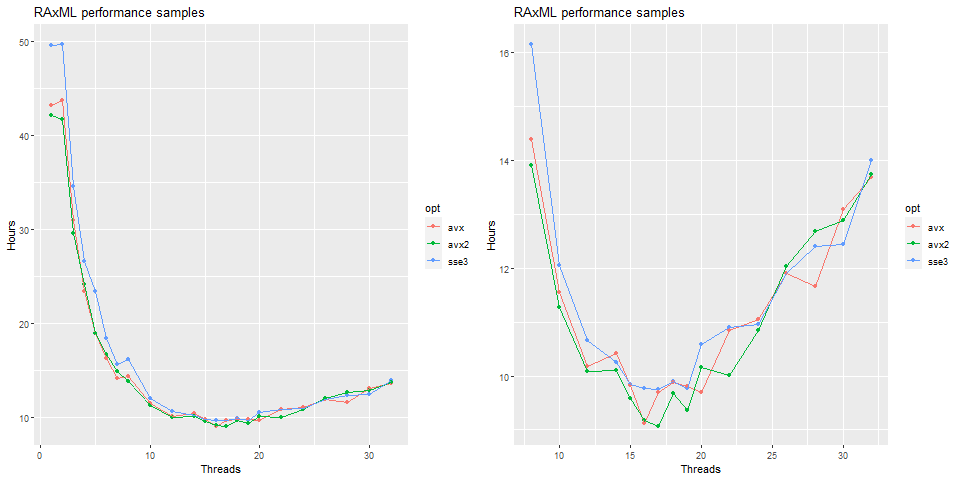
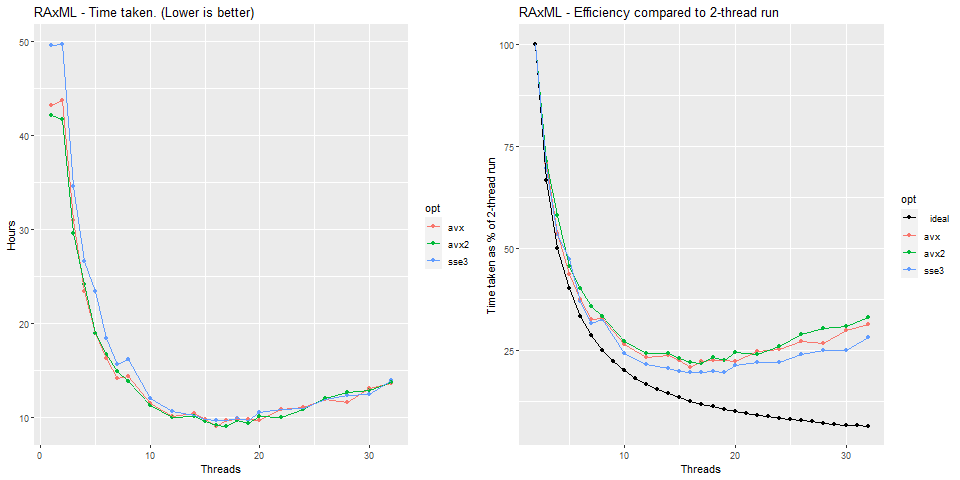
Latest raxml leftovers

diff --git a/content/blog/raxml_threading.md b/content/blog/raxml_threading.md
@@ -19,46 +19,51 @@ favourite build is a pair of
 workhorse HPC (CPU) node.
 
 Much of the parallel computation in our department is done at the process
-level, rather than the core (or thread) level. Simply stacking up single-core
+level, rather than at the core (or thread) level. Stacking up single-core
 jobs on the node and letting the operating system decide the best use of its
-resources turns out effective both in terms of performance, and in the lack of
-tricky programming (or often, any programming at all) required to get that
-performance.
+resources turns out generally effective both in terms of performance, and 
+especially in the lack of tricky programming (or often, any programming at all) 
+required to get that performance.
 
-Where there is threaded code, various R packages, or OpenMP, or Java threads
-all make it possible without too much fuss if you are careful. Or sometimes
-you might strike it lucky and find that the tool you want to use has a
-ready-made argument for threading - a command-line argument `-T 32` for
-instance, to make maximal use of all the cores on our speedy nodes. 
+Ssometimes you might strike it lucky and find that the tool you want to use has a
+ready-made command-line argument for threading - `-T 32` for example,
+to make maximal use of all the cores on our speedy nodes. 
 Because why wouldn't you?
 
 # Why wouldn't you, indeed.
 
 A decade or so ago, our clusters consisted mainly of 8-core machines, which
 at the time felt like a tremendous breakthrough. The performance
-graphs we were used to seeing often looked something like this:
+graphs we were used to seeing often looked something like these below. On
+the left: how long the jobs take when run with a certain number of cores; on
+the right, the percentage reduction in runtime we get by using a certain number 
+of cores, compared to a baseline. 
 
 {{< figure src="/img/raxml_08.png" alt="RAxML with up to 8 cores" >}}
 
-These are sample runs I made using our newest nodes this week with a
-bioinformatics tool called [RAxML](https://github.com/stamatak/standard-RAxML).
-It can be compiled to target SSE3, AVX, or AVX2 processor optimisations,
-and with threading enabled. It offers the convenient `-T threads` argument we
-mentioned earlier. 
+In an ideal world, if we double the cores used,
+we half the runtime. The _ideal_ line shows that target, which we never
+quite meet, in part because of [Amdahl's law](https://en.wikipedia.org/wiki/Amdahl%27s_law);
+if there is _any_ sequential code that can't be parallelised, then even a
+perfect parallelising of the rest won't be enough to cut the total runtime
+in half. In reality, achieving _perfect_ parallelisation of _anything_ is not easy.
 
-One of the threads (if you use more than one) acts as an
-administrator, which somewhat explains the lack of gain from 1 to 2 threads;
-after that, from 2 to 6 threads, we're around 90% efficient. Beyond that, the
-gains of more threads are diminishing. But a few years ago, that was where
-the graph ended. Now we have more cores, so let's throw them all at the
-problem...
+So the work here is a bioinformatics tool called [RAxML](https://github.com/stamatak/standard-RAxML),
+which can also be built to target SSE3, AVX, or AVX2 processor optimisations. It 
+offers the convenient `-T threads` argument. Note one of the threads (if you use 
+more than one) acts as an administrator, which somewhat explains the lack of gain 
+from 1 to 2 threads, and is why I've used the 2-thread run to compare to.
+
+Both graphs a decade or so ago would have been accepted as fairly resonable. But 
+now we have more cores, so let's throw them all at the problem and see if we 
+can get closer to the optimum line...
 
 {{< figure src="/img/raxml_032.png" alt="RAxML with over 8 cores" >}}
 
-.. and we actually start to make things slower - using 32 cores performs
-comparably to using 8. There just isn't enough parallel work for all the
-threads to do; they spend more time waiting for the administrator to
-assign them work than they spend executing that work.
+.. but not only do we fail to become optimal; we actually start getting
+worse. Using 32 threads takes about double the time to do the same work,
+compared to using 16. So here the overhead of organising which thread does 
+what, has become larger than the time taken for the threads to do the work. 
 
 # Stacking
 
@@ -66,7 +71,7 @@ So if throwing all a node's resources at a single job doesn't necessarily
 make that job faster (indeed, perhaps the opposite), then what if we try and
 maximise throughput instead? Let's try filling a 32-core node with as many 16, 8, or
 4-core jobs that will fit, and look for the best average time-per-job as
-we stack them. For simplicity, I'll limit to AVX2.
+we stack them. For simplicity, I'll consider only the AVX2 version.
 
 {{< figure src="/img/raxml_multi.png" alt="RAxML with jobs stacked on a node" >}}
 
@@ -76,7 +81,7 @@ simultaneously to fill the node up, to see how they are affecting by the stackin
 
 The results are a bit confusing here and there; the 10-core is surprisingly 
 erratic, and needs some deeper investigation. The overhead of stacking up 4 and 8 core 
-jobs is a bit more than we might; perhaps those jobs are using more of the node than
+jobs is a bit more than we might expect or want; perhaps those jobs are using more of the node than
 we think (as having the operating system choose processor affinity is an approximate
 science), or perhaps there is something in the code of RAxML that I don't understand.
 
@@ -117,10 +122,11 @@ loss of performance with over-threading, or (2) the gains you can get with
 increased throughput, running more coarser-grain work. The jobs here used
 one node, and many more cluster nodes might be available. For many applications,
 that may be a much better angle to pursue from the outset, rather than jumping
-prematurely to more technically difficult optimisations.[^2]
+prematurely to more technically difficult optimisations.[^3]
   
 ---
 
 
 [^1]: A rack of HPC compute nodes contains about 40 slots, 5 of which might go on network switches, and potentially 10 on UPSes.
-[^2]: An almost relevant excuse to reference [Computing Surveys, Vol 6, No 4, December 1974, p268](https://dl.acm.org/doi/10.1145/356635.356640)
+[^2]: For completeness: it is also possible to find super-linear (better then ideal) behaviour. For example, a bottleneck (often I/O) in a single-core piece of code might be alleviated by using another core, or perhaps a memory caching bonus becomes available when the problem size is split over cores. In these cases for example, a two-core version might run in less than half the time of the single-core version. But that is not what we get here...
+[^3]: An almost relevant excuse to reference [Computing Surveys, Vol 6, No 4, December 1974, p268](https://dl.acm.org/doi/10.1145/356635.356640)
